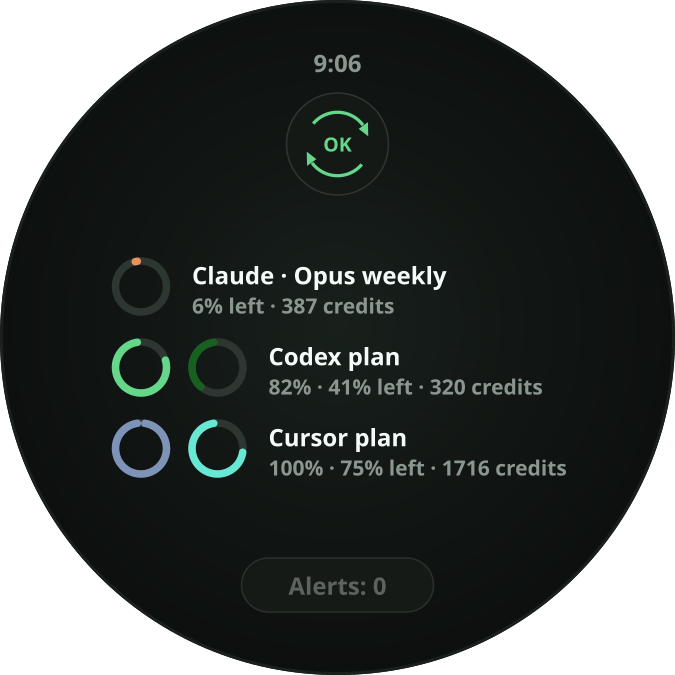
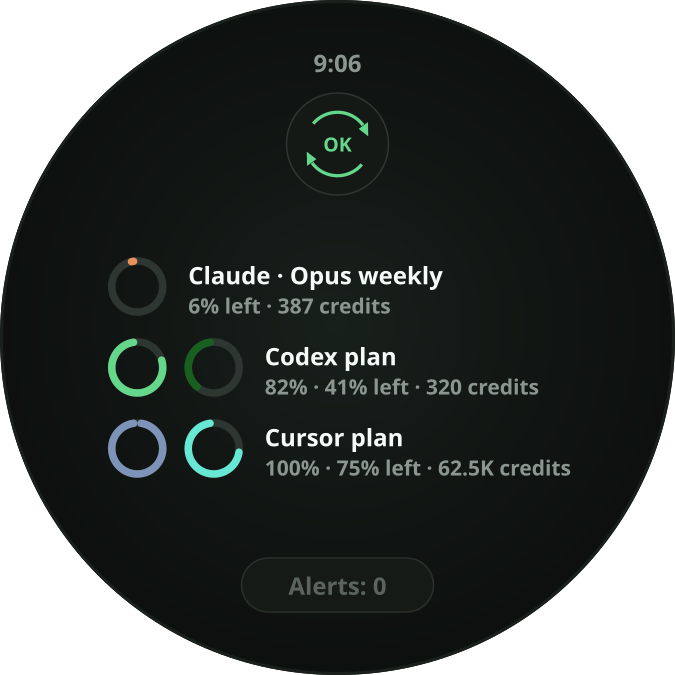
fix(wear): compact credit balances on the Glance

diff --git a/apps/wear_android/app/src/main/java/app/wardpulse/wear/ui/GlanceModels.kt b/apps/wear_android/app/src/main/java/app/wardpulse/wear/ui/GlanceModels.kt
@@ -140,24 +140,32 @@ private fun glanceSubtitle(
     return "$left · $credits"
 }
 
-/** Purchased credits for a ring family (`320 credits`), or null. Shared with the face. */
+/**
+ * A balance as every text surface of the watch renders it: compact, so the Glance,
+ * the plan windows page and the face strips cannot disagree about one number the
+ * wearer sees a swipe apart (`WEAR_GLANCE_DESIGN.md`, revision 2026-10-11).
+ *
+ * A value the provider did not send as a number keeps its own text with the float
+ * noise trimmed: inventing a rounding for something unparsed would say more than
+ * the payload does.
+ */
+internal fun compactQuantityValue(value: String): String =
+    value.toDoubleOrNull()?.let { compactCreditCount(it) } ?: formatQuantityValue(value)
+
+/** The same number with its unit word, which only the wider surfaces have room for. */
+internal fun Quantity.compactLabel(): String = "${compactQuantityValue(value)} $unit"
+
+/** Purchased credits for a Glance row (`62.5K credits`), or null. */
 internal fun purchasedCreditsSuffix(
     summary: WatchDashboardSummary,
     ringId: String,
-): String? {
-    val remaining = purchasedRemainingForRing(summary, ringId) ?: return null
-    return "${formatQuantityValue(remaining.value)} ${remaining.unit}"
-}
+): String? = purchasedRemainingForRing(summary, ringId)?.compactLabel()
 
-/** Compact face strip credits (`320`, `1.2K`) — same family rule as Glance. */
+/** The same balance without the unit word, for a face strip that has no room for it. */
 internal fun purchasedCreditsCompact(
     summary: WatchDashboardSummary,
     ringId: String,
-): String? {
-    val remaining = purchasedRemainingForRing(summary, ringId) ?: return null
-    val value = remaining.value.toDoubleOrNull() ?: return formatQuantityValue(remaining.value)
-    return compactCreditCount(value)
-}
+): String? = purchasedRemainingForRing(summary, ringId)?.let { compactQuantityValue(it.value) }
 
 internal fun purchasedRemainingForRing(
     summary: WatchDashboardSummary,

diff --git a/apps/wear_android/app/src/test/java/app/wardpulse/wear/ui/GlanceModelsTest.kt b/apps/wear_android/app/src/test/java/app/wardpulse/wear/ui/GlanceModelsTest.kt
@@ -329,6 +329,41 @@ class GlanceModelsTest {
         assertEquals(RingFamily.CLAUDE, rows.single().colorArgb)
     }
 
+    @Test
+    fun legendRows_creditBalanceIsCompact() {
+        // The face strip draws this balance from the same payload as `62.5K`; a
+        // Glance that disagreed would make the wearer pick a screen to believe
+        // (`WEAR_GLANCE_DESIGN.md`, revision 2026-10-11).
+        assertEquals("8% left · 62.5K credits", codexSubtitleForCredits("62479.294375"))
+        assertEquals("8% left · 1K credits", codexSubtitleForCredits("1000"))
+        assertEquals("8% left · 320 credits", codexSubtitleForCredits("320"))
+        assertEquals("8% left · 0 credits", codexSubtitleForCredits("0"))
+        // Trailing-zero noise was already trimmed and still is.
+        assertEquals("8% left · 12.5 credits", codexSubtitleForCredits("12.50"))
+    }
+
+    private fun codexSubtitleForCredits(credits: String): String =
+        glanceLegendRows(
+            baseSummary(
+                rings =
+                    listOf(
+                        RingSummary("allowance.codex.week", "Weekly plan", 92.0, PulseStatus.OK),
+                    ),
+                allowances =
+                    listOf(
+                        AllowanceSummary(
+                            source = "purchased",
+                            label = "Codex · Credits",
+                            usedPercent = null,
+                            remaining = Quantity(credits, "credits"),
+                            unlimited = false,
+                            resetsAt = null,
+                            status = PulseStatus.OK,
+                        ),
+                    ),
+            ),
+        ).single().subtitle
+
     private fun cursorPair(innerUsed: Double = 18.0, outerUsed: Double = 59.0) = RingSummary(
         "allowance.cursor.cursor-plan-models",
         "Cursor Models",

diff --git a/apps/wear_android/app/src/test/java/app/wardpulse/wear/ui/PlanWindowsTest.kt b/apps/wear_android/app/src/test/java/app/wardpulse/wear/ui/PlanWindowsTest.kt
@@ -124,8 +124,26 @@ class PlanWindowsTest {
         )
 
         // A plan with no published limit knows what is left without knowing the
-        // share it makes up; the Usage screen says the same.
-        assertEquals("1716 credits left", rows.single().detail)
+        // share it makes up. The balance is compact, as it is on the Glance and
+        // the face (`WEAR_GLANCE_DESIGN.md`, revision 2026-10-11).
+        assertEquals("1.7K credits left", rows.single().detail)
+    }
+
+    @Test
+    fun detail_compactsAProviderFloatRemainder() {
+        val rows = planWindowRows(
+            summaryOf(
+                allowance("Cursor · Plan usage", used = null, resetsAt = null).copy(
+                    remaining = Quantity(value = "62479.294375", unit = "credits"),
+                ),
+            ),
+            now = now,
+            zone = utc,
+        )
+
+        // Six decimal places are the provider's arithmetic, not something a
+        // wearer acts on, and the face shows this balance as `62.5K`.
+        assertEquals("62.5K credits left", rows.single().detail)
     }
 
     @Test

diff --git a/apps/wear_android/app/src/main/java/app/wardpulse/wear/ui/PlanWindows.kt b/apps/wear_android/app/src/main/java/app/wardpulse/wear/ui/PlanWindows.kt
@@ -104,7 +104,7 @@ private fun detailOf(
     val left = when {
         allowance.unlimited -> "Unlimited"
         allowance.usedPercent != null -> "${formatPercentRemainingLabel(allowance.usedPercent)} left"
-        allowance.remaining != null -> "${allowance.remaining.label} left"
+        allowance.remaining != null -> "${allowance.remaining.compactLabel()} left"
         else -> null
     }
     val back = allowance.returnsAt(now)?.let { backLabel(it, now, zone) }

diff --git a/docs/product/WEAR_GLANCE_DESIGN.md b/docs/product/WEAR_GLANCE_DESIGN.md
@@ -56,6 +56,42 @@ nothing else, and no PNG is byte-compared at all — `tools/design-output.mjs` r
 generated preview is proved to match its board, never to match the Glance screen on a watch.
 That stays a device capture's job.
 
+**Revision 2026-10-11 — credit balances are compact:** a Glance row renders a purchased credit
+balance in the face's own compact form and appends the unit word — `62.5K credits`, `320
+credits`, `1K credits`, `0 credits`. Until this revision it printed the provider's own number
+with nothing done to it but trailing zeros trimmed, which is no help when the tail is not zeros.
+Seen on `emulator-5554` the same day, third row:
+
+```text
+Codex · Weekly plan
+75% left · 62479.294375 credits
+```
+
+The face strip, one swipe away, drew the same balance from the same payload as `62.5K`.
+
+Nothing here was ever ruled. This document showed only examples — `8% left · 320 credits`,
+`82% · 41% left · 320 credits` — and every one is a short integer somebody chose by hand, so no
+board, no preview and no run of `just check-designs` could have shown it. It took a real payload
+on a real screen.
+
+**The rule is the face's, and the reason is not width.** Those six decimal places are the
+provider's arithmetic, not information anyone acts on; dropping them costs the wearer nothing at
+any width. What the extra width does buy is the word `credits`, which the face strip has no room
+for and this row keeps. More precision is declined on purpose: the same balance appears on
+two screens one swipe apart, and a Glance that disagreed with the face about a number would make
+the wearer decide which to believe. So the number is the strip's own and the unit word is the
+Glance's own.
+
+It also makes the subtitle bounded, which is what keeps the 2026-10-01 fit check honest. That
+check measured three rows and found no clipping — with `320 credits` in them, a length nobody
+had guaranteed. Compacted, the longest a paired subtitle can reach is
+`100% · 100% left · 999.9T credits`, for any balance below a quadrillion credits; the old form
+grew with whatever a provider sent.
+
+The plan windows page draws the same `Quantity` in its no-share fallback and follows the same
+rule (`apps/wear_android/README.md`). Out of reach of this document: the **phone** dashboard
+still renders the uncompacted form from its own `Quantity.label`. That is the phone's to rule on.
+
 Do not reintroduce a face clone (large concentric stacks, sunk strips, watermark, or
 time-as-hero), stacked icon-above-label refresh, or conflating cadence cooldown with
 `!OK` / `Rate limited`.
@@ -119,6 +155,10 @@ Rules:
   first, with one `left` applying to both remaining percentages. Append purchased credits
   once when available: `82% · 41% left · 320 credits`. Per provider only — not a footer sum,
   not face `creditsGlance`, never LLM `TOK`.
+- The credit balance is **compact**, the face strip's own form, with the unit word after it:
+  `62.5K credits`, `1K credits`, `320 credits`, `0 credits`. A provider's trailing decimals
+  never reach the row, and the number never differs from the one the face shows for the same
+  band (revision 2026-10-11 above).
 - Rows are laid out on a **54-unit pitch** with nothing added between them: the pitch already
   covers the mini arcs and both lines.
 - The block keeps **12 units clear of the Alerts pill**. Three rows is the ceiling, one per
@@ -213,7 +253,7 @@ xdg-open apps/wear_android/design/preview-glance-legend-3.png
 | `glance-legend-3.svg` | **Primary** — three providers, `OK` refresh enabled, Alerts disabled |
 | `glance-legend-1.svg` | Single provider with credits |
 | `glance-legend-pair.svg` | One Cursor pair — one row, two coloured arcs, inner-first percentages and credits once |
-| `glance-legend-full.svg` | Three rows — the ceiling: three bands, currently two paired; three-row and paired-row geometry verified on-device 2026-10-01 |
+| `glance-legend-full.svg` | Three rows — the ceiling: three bands, currently two paired; three-row and paired-row geometry verified on-device 2026-10-01. Its paired row carries a large balance (`62.5K credits`) so the longest subtitle the rules allow is on a board |
 | `glance-legend-budget.svg` | Plan rows (with credits) + a connection budget row (family color, no credits) |
 | `glance-legend-stale.svg` | `!OK` + detail `Stale`, refresh enabled, Alerts active |
 | `glance-legend-cadence.svg` | Healthy `OK` but refresh **disabled** (cadence cooldown; no detail) |
@@ -233,6 +273,7 @@ paired title = family + " plan"; Cursor plan and Codex plan exactly
 paired subtitle = "82% · 41% left · 320 credits" (omit credits suffix when unavailable)
 54-unit row pitch; 12-unit Alerts clearance; round 384 / notround 360 width and clipping verified 2026-10-01
 per-provider credits with explicit credits label (no footer sum)
+credit balance compact, as the face strip renders it: 62.5K credits / 1K credits / 320 credits / 0 credits
 OK / !OK inside dual-arrow refresh glyph; same label font size
 optional muted problem detail below the plate (never on the ring)
 cadence cooldown = gray OK + disabled (no detail)

diff --git a/apps/wear_android/README.md b/apps/wear_android/README.md
@@ -69,7 +69,8 @@ Rules:
   unknown. A reset already behind counts as none, because the provider has not caught up with
   its own clock (Cursor aggregates about hourly), and printing a moment that has passed would
   say the window is late rather than that the number is.
-- **A window with no share shows its remainder** (`1716 credits left`) — a plan whose ceiling
+- **A window with no share shows its remainder** (`1.7K credits left`, compact as everywhere
+  else on the watch — `WEAR_GLANCE_DESIGN.md`, revision 2026-10-11) — a plan whose ceiling
   the provider does not publish, Cursor's among them, still knows how much is left, and a
   remainder at zero counts as exhausted like any full percentage.
 - **An unlimited window says so** (`Unlimited`), and one that can say neither a share nor a
